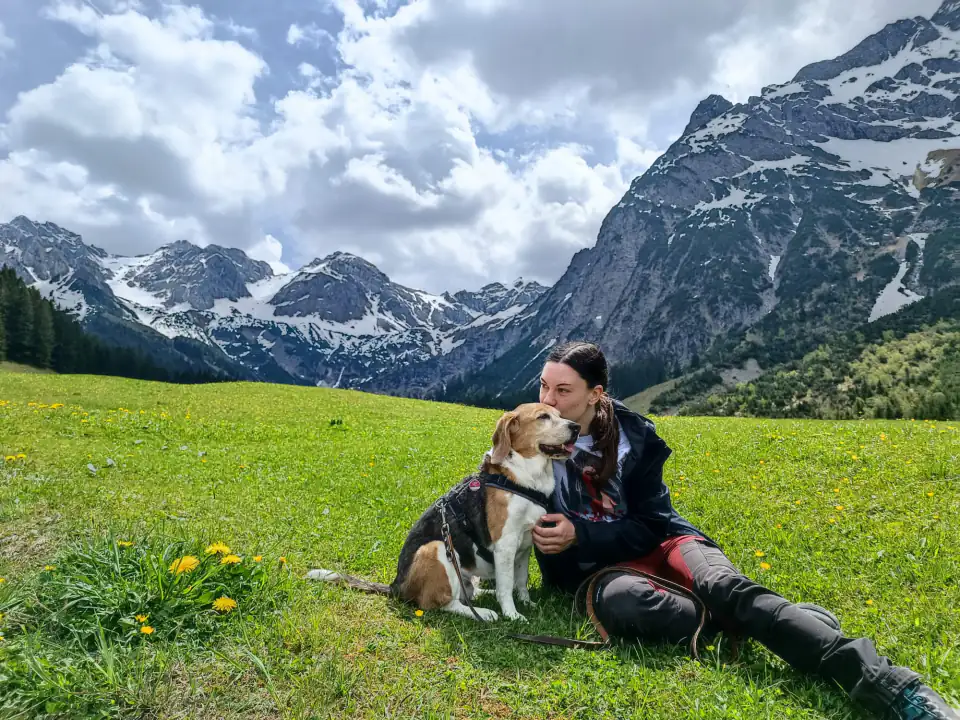
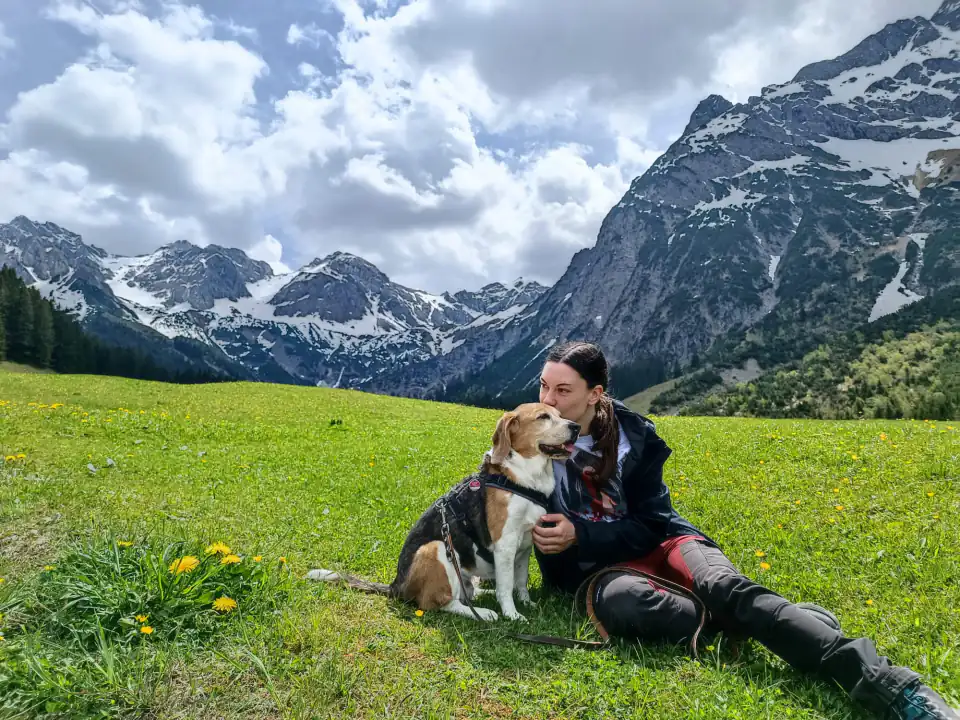
Hero: AVIF entfernt (Firefox/Cross-Browser-Fix) + LCP-Optimierung der Bildauslieferung
Fix Bug (Bilder luden nur in Chrome/Windows):
- Die mit sips (macOS) erzeugten AVIF waren nicht cross-browser-dekodierbar.
  Firefox & andere waehlen wegen gemeldetem AVIF-Support die <source avif>,
  koennen sie aber nicht dekodieren – und <picture> faellt dann NICHT auf WebP
  zurueck -> leeres Bild. AVIF-Dateien entfernt, zurueck auf WebP-only <img srcset>
  (universell unterstuetzt). data-frame-Selektoren bleiben (CSS unveraendert).

LCP-Optimierung (war 2,2-2,6 s):
- Frames 2 & 3 mit fetchpriority="low": das LCP-Bild (Frame 1) bekommt die
  Bandbreite zuerst, statt mit den zwei anderen Hero-Fotos zu konkurrieren.
- Mittlere Breite 1280w ergaenzt: High-DPR-Handys (Lighthouse ~DPR 2.6) luden
  bei der Luecke 960w/1600w sonst die volle 1600w-Datei (275 KB). Jetzt waehlen
  sie 1280w (~180 KB). Desktop-Qualitaet (1600w) unangetastet.
- Mobile 960er auf q55 (109/130/113 KB).

Verifiziert (Preview, Chrome mobil DPR2): nur WebP-Requests (kein AVIF), 960er
geladen, Frame 1 high / 2&3 low, Bildqualitaet ok.

diff --git a/website/index.html b/website/index.html
@@ -225,24 +225,15 @@
     <section class="hero-full" aria-labelledby="hero-title">
       <div class="hero-full__media">
         <div class="hero-seq" data-hero-seq role="img" aria-label="Anna Prädel beim Training mit verschiedenen Hunden in der Natur rund um Berlin Rudow">
-          <picture>
-            <source type="image/avif" srcset="bilder/hero01-960.avif 960w, bilder/hero01.avif 1600w" sizes="100vw">
-            <source type="image/webp" srcset="bilder/hero01-960.webp 960w, bilder/hero01.webp 1600w" sizes="100vw">
-            <img class="hero-seq__frame" data-frame="1" alt="" style="object-position:55% 60%"
-                 src="bilder/hero01-960.webp" width="1600" height="1200" fetchpriority="high" decoding="async">
-          </picture>
-          <picture>
-            <source type="image/avif" srcset="bilder/hero02-960.avif 960w, bilder/hero02.avif 1384w" sizes="100vw">
-            <source type="image/webp" srcset="bilder/hero02-960.webp 960w, bilder/hero02.webp 1384w" sizes="100vw">
-            <img class="hero-seq__frame" data-frame="2" alt="" style="object-position:50% 48%"
-                 src="bilder/hero02-960.webp" width="1384" height="842" loading="lazy" decoding="async">
-          </picture>
-          <picture>
-            <source type="image/avif" srcset="bilder/hero03-960.avif 960w, bilder/hero03.avif 1600w" sizes="100vw">
-            <source type="image/webp" srcset="bilder/hero03-960.webp 960w, bilder/hero03.webp 1600w" sizes="100vw">
-            <img class="hero-seq__frame" data-frame="3" alt="" style="object-position:50% 50%"
-                 src="bilder/hero03-960.webp" width="1600" height="900" loading="lazy" decoding="async">
-          </picture>
+          <img class="hero-seq__frame" data-frame="1" alt="" style="object-position:55% 60%"
+               src="bilder/hero01-960.webp" srcset="bilder/hero01-960.webp 960w, bilder/hero01-1280.webp 1280w, bilder/hero01.webp 1600w" sizes="100vw"
+               width="1600" height="1200" fetchpriority="high" decoding="async">
+          <img class="hero-seq__frame" data-frame="2" alt="" style="object-position:50% 48%"
+               src="bilder/hero02-960.webp" srcset="bilder/hero02-960.webp 960w, bilder/hero02-1280.webp 1280w, bilder/hero02.webp 1384w" sizes="100vw"
+               width="1384" height="842" loading="lazy" fetchpriority="low" decoding="async">
+          <img class="hero-seq__frame" data-frame="3" alt="" style="object-position:50% 50%"
+               src="bilder/hero03-960.webp" srcset="bilder/hero03-960.webp 960w, bilder/hero03-1280.webp 1280w, bilder/hero03.webp 1600w" sizes="100vw"
+               width="1600" height="900" loading="lazy" fetchpriority="low" decoding="async">
         </div>
       </div>
       <div class="hero-full__overlay" aria-hidden="true"></div>